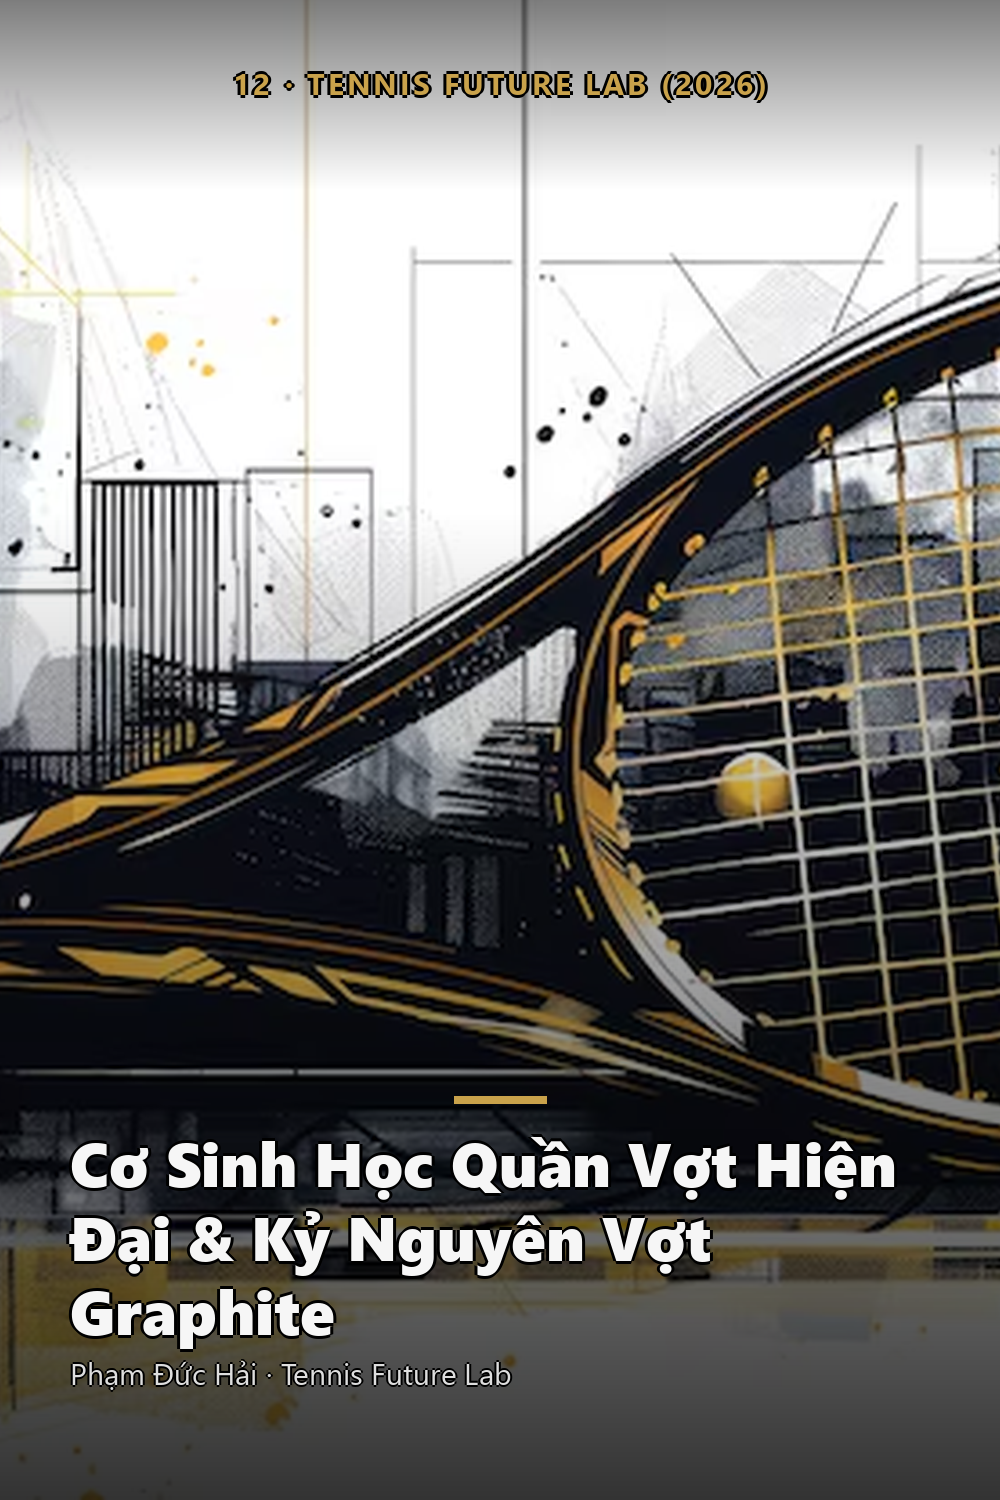
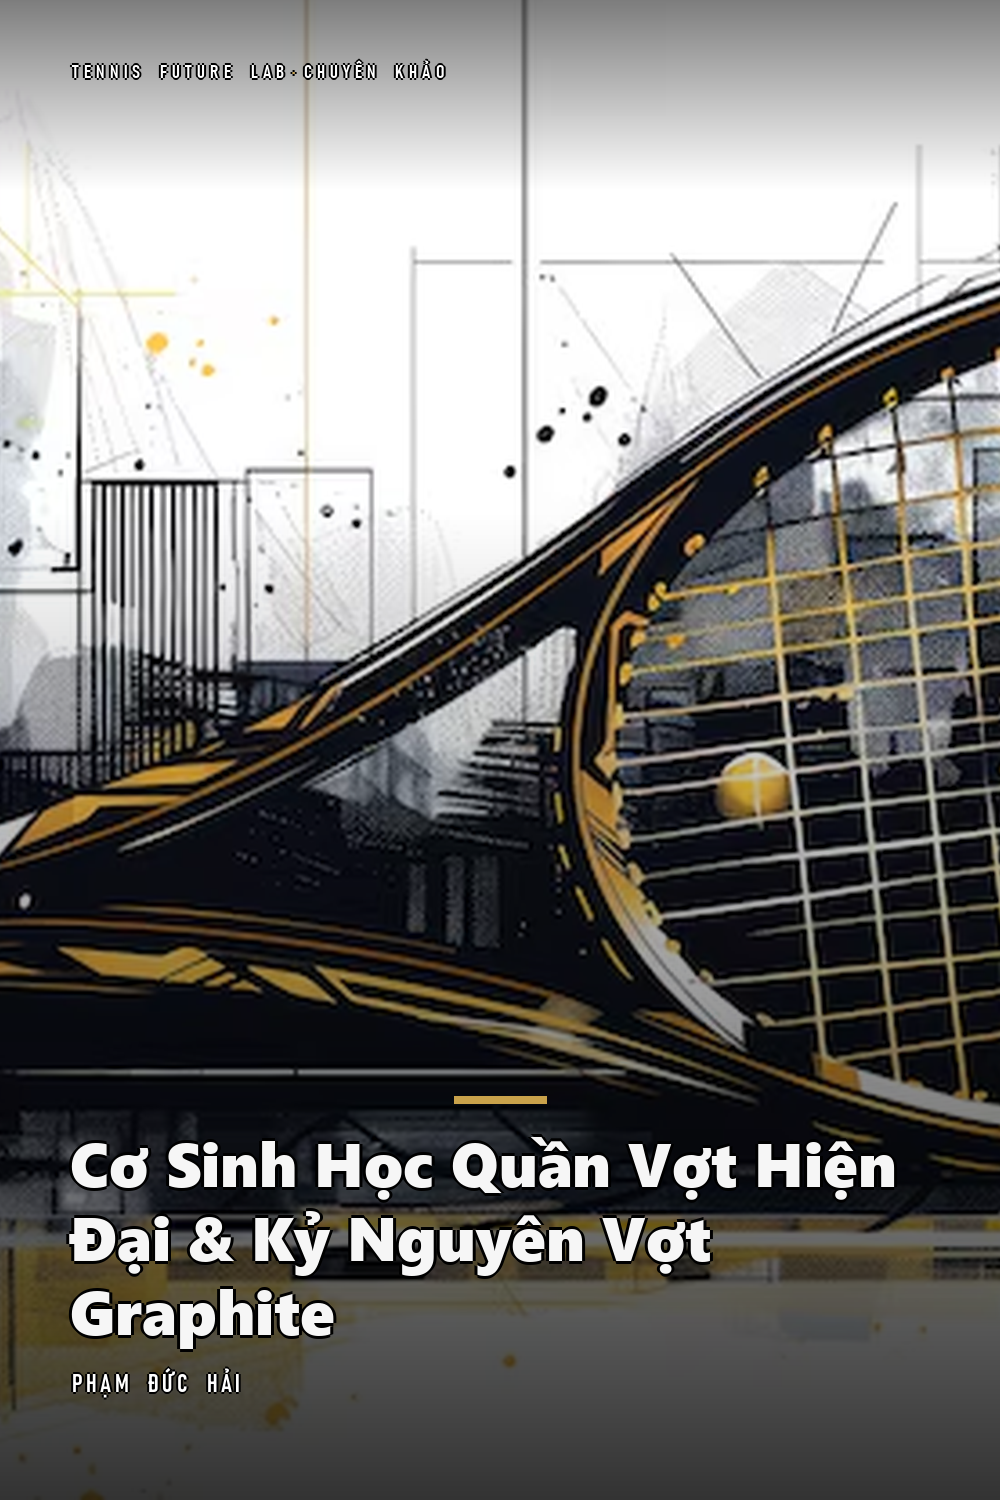
Covers #9/#12: drop volume numeral, reduce author to Pham Duc Hai
Book covers carried a baked-in "9 · TENNIS FUTURE LAB (2026)" /
"12 · TENNIS FUTURE LAB (2026)" kicker and a "Pham Duc Hai · Tennis Future
Lab" author line, which the rest of the TFL shelf does not have. Regenerated
both from _inv/_gen_cover.py's own source artwork so the type is not patched
but redrawn:

  - kicker is now the series line "TENNIS FUTURE LAB · CHUYEN KHAO",
    Bahnschrift SemiBold Condensed 19 / track 5.2 at MARGIN 72, baseline 78 --
    the same call make_covers_v4.make() uses, so the cap band lands on the
    identical pixels as #10/#11 (measured y 61-77, x 72-442).
  - author is now "PHAM DUC HAI" alone, series treatment (25 / track 3.4).
  - title, gold accent rule, scrims and thumb crop are unchanged.

Reader pages: the "· Tennis Future Lab" tail is gone from the author line and
footer of both; book 12's badge drops "· Tac Pham 12" and its footer sig now
carries the book title instead of the house brand, matching #9/#10.

Changed region(s): [[0.062, 0.0307, 0.775, 0.092], [0.062, 0.8893, 0.527, 0.9507]]

diff --git a/vi/books/12_modern_tennis_mechanics_deep_dive_vi.html b/vi/books/12_modern_tennis_mechanics_deep_dive_vi.html
@@ -315,13 +315,13 @@ body.no-en #lang-toggle{display:none}
 
   <main class="book-content" id="book-content">
     <div class="book-hero">
-      <span class="badge">Tennis Future Lab &middot; Chuyên Khảo &middot; Tác Phẩm 12</span>
+      <span class="badge">Tennis Future Lab &middot; Chuyên Khảo</span>
       <img class="book-cover" src="12_modern_tennis_mechanics_deep_dive_vi_assets/cover.png" alt="Bìa sách Cơ Sinh Học Quần Vợt Hiện Đại & Kỷ Nguyên Vợt Graphite · Cẩm Nang Phân Tích Chuyên Sâu">
 <h1>Cơ Sinh Học Quần Vợt Hiện Đại & Kỷ Nguyên Vợt Graphite · Cẩm Nang Phân Tích Chuyên Sâu</h1>
       <div class="meta-row">
         <span><i class="fa-solid fa-book"></i> Toàn văn tiếng Việt</span>
         <span><i class="fa-solid fa-layer-group"></i> 20 chương &middot; 4 phần</span>
-        <span><i class="fa-solid fa-user"></i> Phạm Đức Hải &middot; Tennis Future Lab</span>
+        <span><i class="fa-solid fa-user"></i> Phạm Đức Hải</span>
       </div>
     </div>
 
@@ -1542,6 +1542,6 @@ window.addEventListener('scroll', function(){
   spy();
 })();
 </script>
-<footer style="margin:3rem auto 0;max-width:46rem;padding:1.5rem 1rem 3rem;border-top:2px solid var(--secondary,#b8860b);text-align:center;font-family:var(--font-heading,Georgia,serif);color:#5b6572;font-size:0.9rem"><div style="font-weight:800;letter-spacing:0.18em;text-transform:uppercase;color:var(--primary,#0f3d2e);margin-bottom:.35rem">Tennis Future Lab</div><div>Phạm Đức Hải &middot; Tennis Future Lab &middot; Chuyên Khảo #12</div><div>Thư viện quần vợt Việt Nam.</div></footer>
+<footer style="margin:3rem auto 0;max-width:46rem;padding:1.5rem 1rem 3rem;border-top:2px solid var(--secondary,#b8860b);text-align:center;font-family:var(--font-heading,Georgia,serif);color:#5b6572;font-size:0.9rem"><div style="font-weight:800;letter-spacing:0.18em;text-transform:uppercase;color:var(--primary,#0f3d2e);margin-bottom:.35rem">Cơ Sinh Học Quần Vợt Hiện Đại</div><div>Phạm Đức Hải</div><div>Thư viện quần vợt Việt Nam.</div></footer>
 </body>
 </html>

diff --git a/vi/books/9_tu_co_khi_den_song_vi.html b/vi/books/9_tu_co_khi_den_song_vi.html
@@ -138,7 +138,7 @@ body.dark-mode .tcq-book strong{color:var(--tcq-ink) !important;}
   <img class="cover-art" src="9_tu_co_khi_den_song_vi_assets/cover.png" alt="Bìa sách Từ Cơ Khí Đến Sóng">
   <h1 class="sr-only">Từ Cơ Khí Đến Sóng — Mạc, Tensegrity (Cấu Trúc Căng-Tích Hợp) &amp; Cơ Học Sóng Trong Tennis</h1>
   <div class="kicker">Tennis Future Lab · Chuyên khảo</div>
-  <div class="by">Phạm Đức Hải · Tennis Future Lab</div>
+  <div class="by">Phạm Đức Hải</div>
 </header>
 <hr class="lead">
 <nav class="toc" id="toc"><h2 class="toc-title">Mục lục</h2>
@@ -395,7 +395,7 @@ body.dark-mode .tcq-book strong{color:var(--tcq-ink) !important;}
 <p>Cuốn sách này không phải một quy trình bạn thực hiện một lần rồi thôi. Mỗi ngày trên sân là một cơ hội để lắng nghe sóng trong cơ thể, tinh chỉnh nó, và cho phép nó bùng nổ tự do hơn một chút. Không có điểm đến trong hành trình này — chỉ có sự thực hành liên tục, sự tò mò không ngừng, và niềm vui của việc cảm nhận năng lượng chảy qua mình. Đừng gồng. Hãy buông, và để sóng làm phần còn lại.</p>
 </section>
 </main>
-<footer class="end"><div class="sig">TỪ CƠ KHÍ ĐẾN SÓNG</div><div>Phạm Đức Hải · Tennis Future Lab</div><div>Bạn không đánh bóng bằng cơ bắp. Bạn để sóng chạy xuyên qua cơ thể.</div></footer>
+<footer class="end"><div class="sig">TỪ CƠ KHÍ ĐẾN SÓNG</div><div>Phạm Đức Hải</div><div>Bạn không đánh bóng bằng cơ bắp. Bạn để sóng chạy xuyên qua cơ thể.</div></footer>
 </div>
 </div>
 </body>
